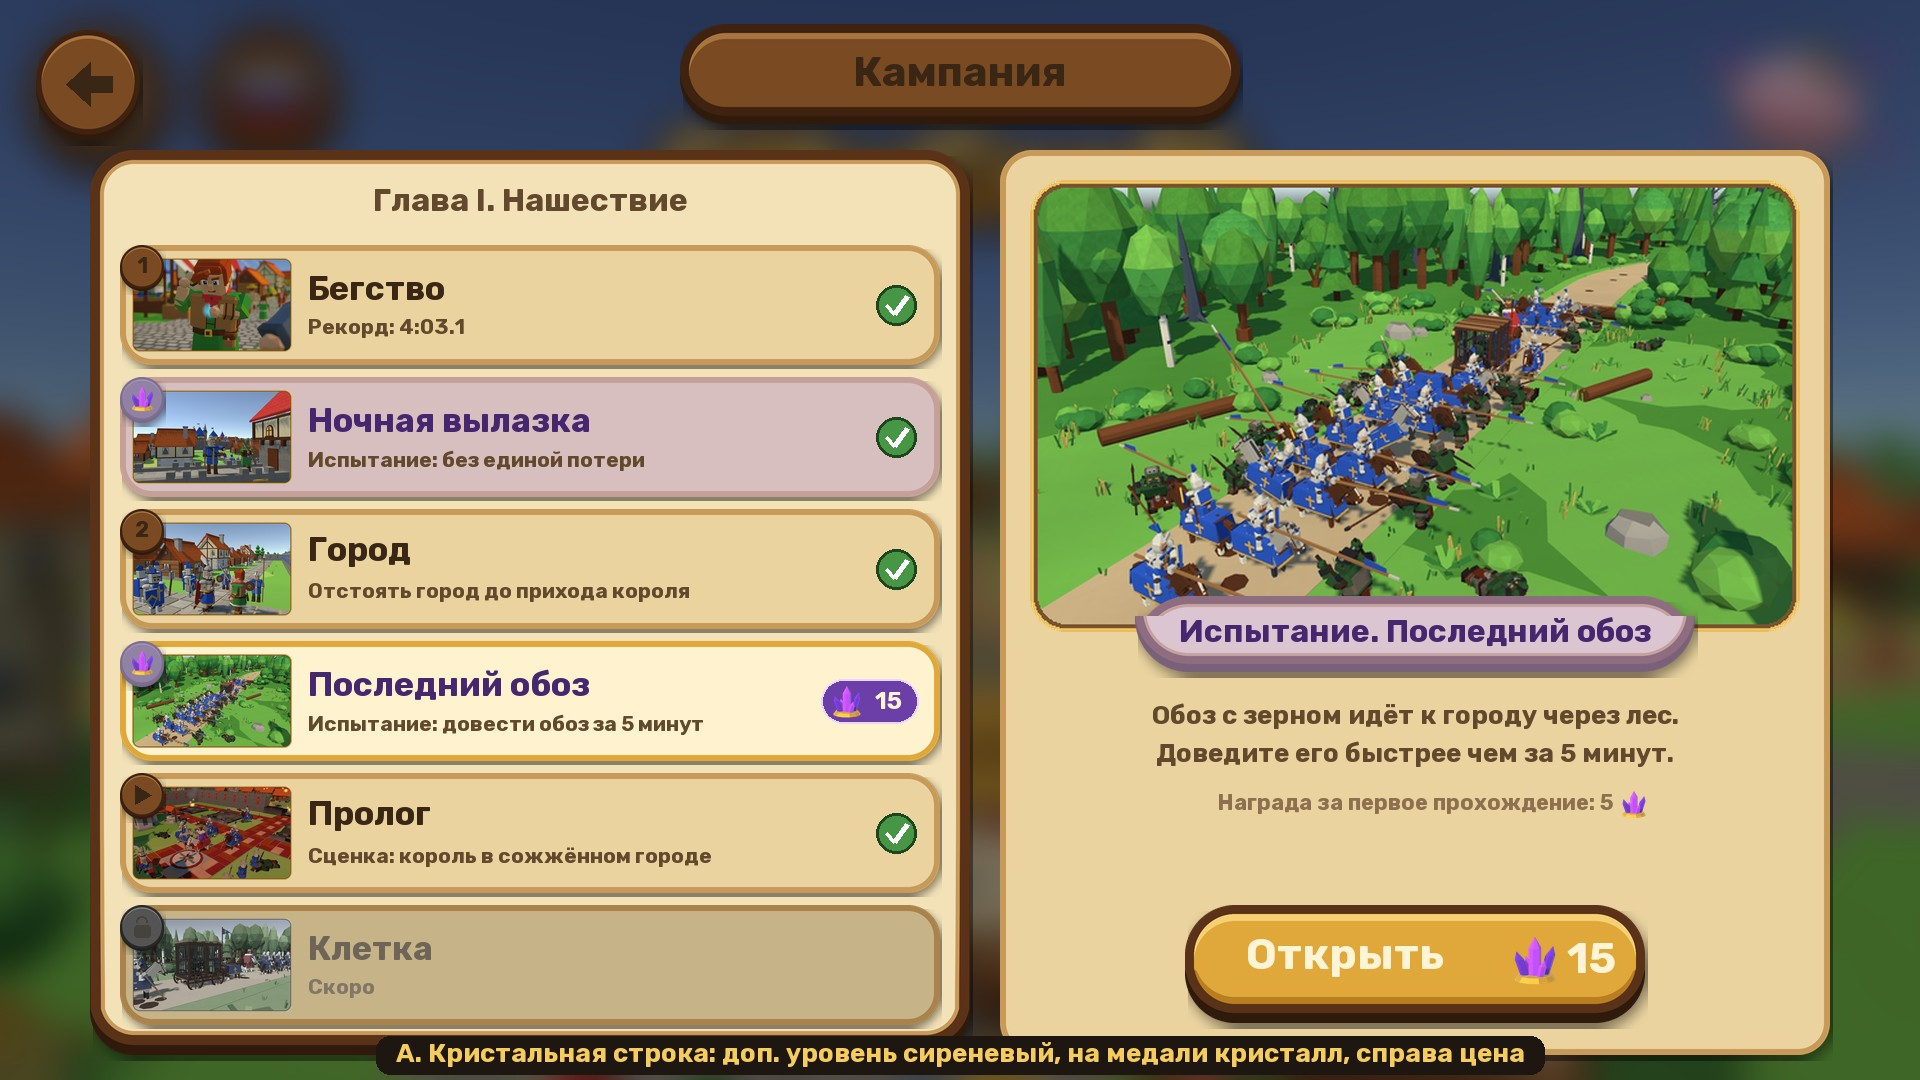
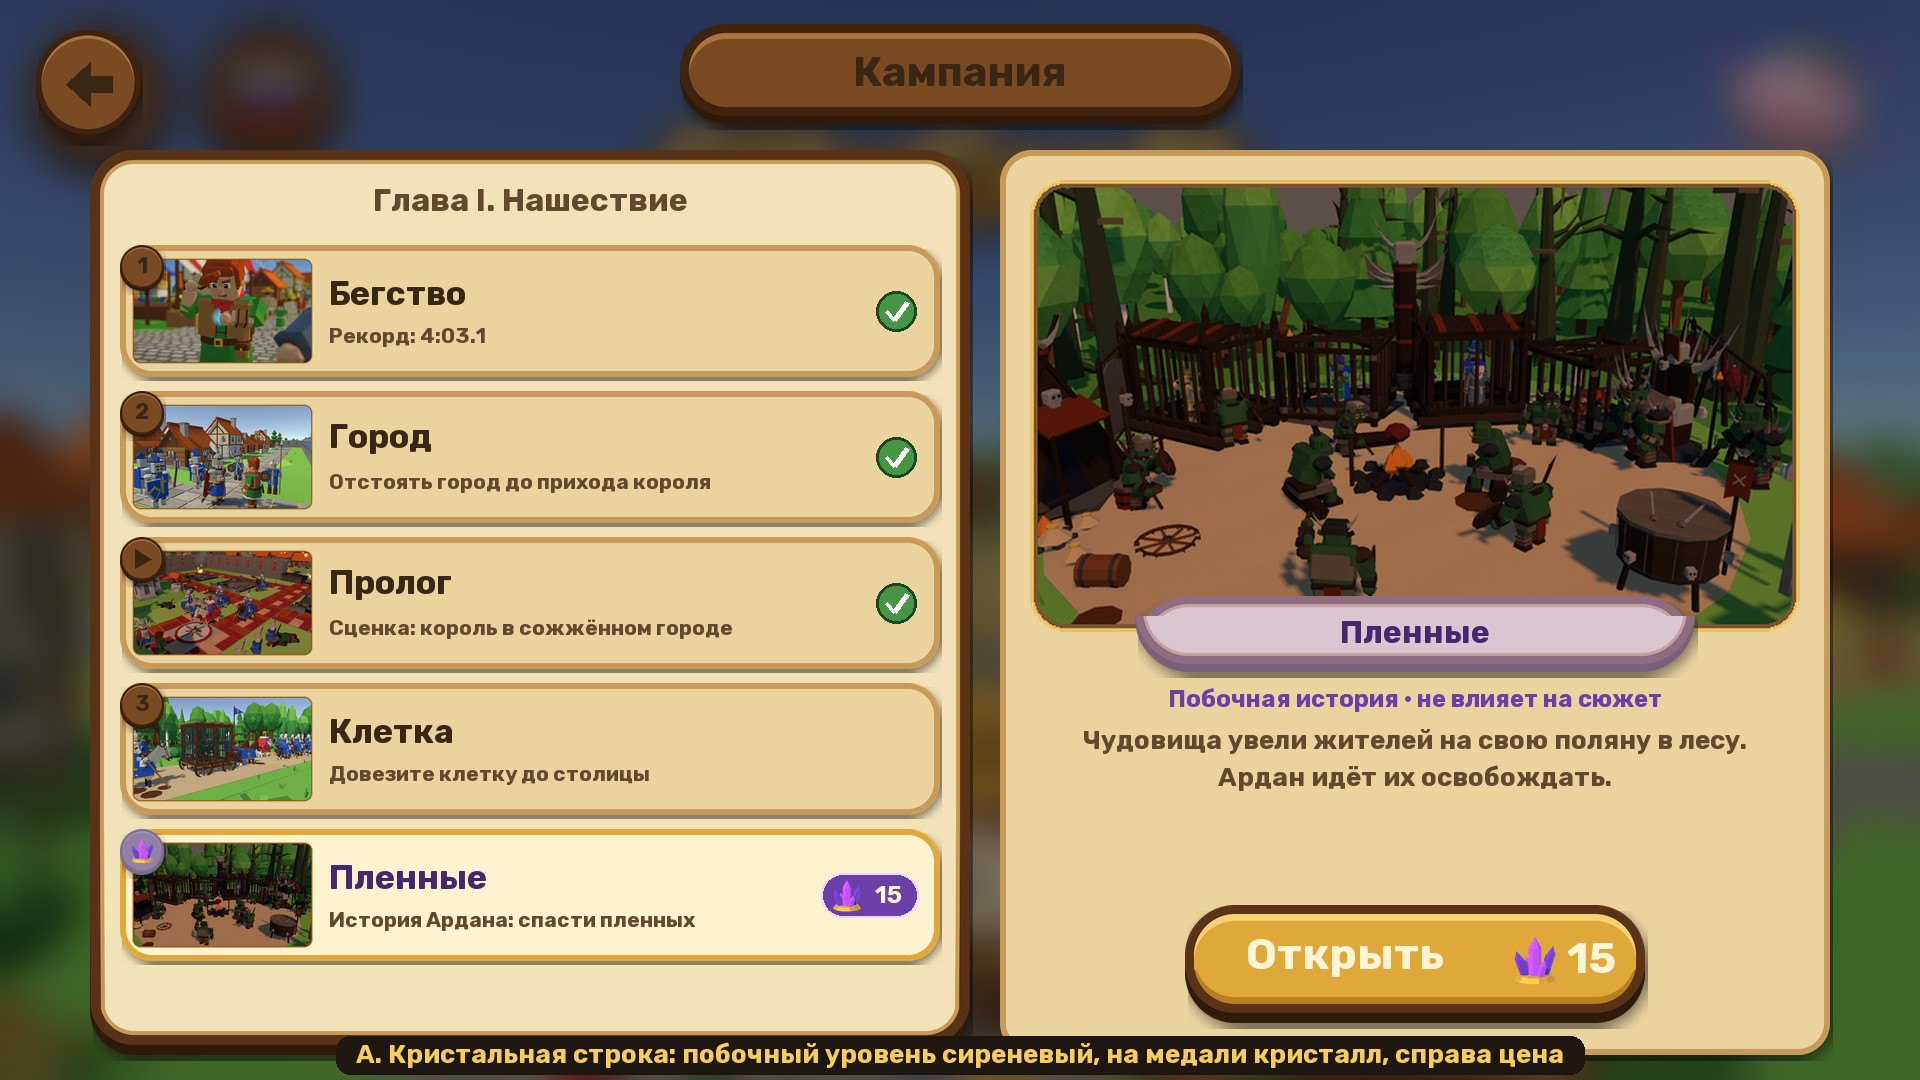
Campaign list: main/side marking concepts redone on the real levels (Пленные = Ардан's side branch)

diff --git a/Tools/campaign/campaign_extra_concept.py b/Tools/campaign/campaign_extra_concept.py
@@ -1,6 +1,8 @@
 """How MAIN story levels and EXTRA levels (opened for crystals) tell apart in the campaign list (the user
 2026-11-24: «предложи пометку для основных уровней и дополнительных, которые игрок будет открывать за кристаллы»).
-Three concept screens over the real list layout (variant A), the extras' names are only examples:
+The user then explained: an EXTRA level is a SIDE BRANCH of the story, not the main line -- level 3 splits in two:
+«Клетка» (the King's road, MAIN) and «Пленные» (Ардан goes to free the captives, EXTRA, opened for crystals).
+Three concept screens over the real list layout (variant A) with the real levels:
 
   extra_a -- «Кристальная строка»: an extra row is lilac with a crystal on its medal and a price pill «15» + crystal
   extra_b -- «Ветка»: extras hang under the story level they follow, indented, joined by a dotted line, smaller
@@ -25,16 +27,15 @@ VIOLET = (108, 62, 168)
 
 # (preview, number, name, line, state, extra)   state: done / open / buy / locked
 ROWS = [("m1", "1", "Бегство", "Рекорд: 4:03.1", "done", False),
-        ("x1", "", "Ночная вылазка", "Испытание: без единой потери", "done", True),
         ("m2", "2", "Город", "Отстоять город до прихода короля", "done", False),
-        ("x2", "", "Последний обоз", "Испытание: довести обоз за 5 минут", "buy", True),
         ("m3p", "", "Пролог", "Сценка: король в сожжённом городе", "done", False),
-        ("m3b", "3", "Клетка", "Скоро", "locked", False)]
-PICKED = 3
+        ("m3b", "3", "Клетка", "Довезите клетку до столицы", "open", False),
+        ("m3a", "", "Пленные", "История Ардана: спасти пленных", "buy", True)]
+PICKED = 4
 
 
 def thumb(key, w, h):
-    if key.startswith('x'):   # an example extra: a frame of the siege / the escort
+    if False:
         src = sorted(os.listdir(os.path.join(SHOTS, 'm2' if key == 'x1' else 'm3b')))
         from preview_sheet import crop
         pic = crop(Image.open(os.path.join(SHOTS, 'm2' if key == 'x1' else 'm3b', src[8 if key == 'x1' else 20])).convert('RGB')).convert('RGBA')
@@ -127,13 +128,11 @@ def card(base, d, rows_picked, extra_label):
         tint.putalpha(pl.getchannel('A'))
         pl = Image.blend(pl, tint, 0.5)
     shadow(base, pl, (cx + cw // 2 - 280, py))
-    text_c(d, (cx + cw // 2, py + 36), f"{extra_label}. {name}" if extra else name, 32, fill=(70, 38, 110) if extra else INK)
-    text_c(d, (cx + cw // 2, py + 120), "Обоз с зерном идёт к городу через лес.", 26, fill=BROWN)
-    text_c(d, (cx + cw // 2, py + 158), "Доведите его быстрее чем за 5 минут.", 26, fill=BROWN)
-    text_c(d, (cx + cw // 2, py + 208), "Награда за первое прохождение: 5", 22, fill=(140, 112, 80))
-    c = crystal(34)
-    tw = d.textlength("Награда за первое прохождение: 5", font=font(22))
-    base.alpha_composite(c, (int(cx + cw // 2 + tw / 2 + 4), py + 190))
+    text_c(d, (cx + cw // 2, py + 36), name, 32, fill=(70, 38, 110) if extra else INK)
+    text_c(d, (cx + cw // 2, py + 104), extra_label, 24, fill=VIOLET)
+    text_c(d, (cx + cw // 2, py + 146), "Чудовища увели жителей на свою поляну в лесу.", 26, fill=BROWN)
+    text_c(d, (cx + cw // 2, py + 182), "Ардан идёт их освобождать.", 26, fill=BROWN)
+
     # the buy button: the menu's own button, a crystal and the price
     bw, bh = 460, 118
     bx, by = cx + cw // 2 - bw // 2, cy + chh - 150
@@ -159,10 +158,10 @@ def variant_a(out):
     px, py, pw, ph = panel(base, d, "Глава I. Нашествие")
     y = py + 95
     for i, r in enumerate(ROWS):
-        row(base, d, px + 30, y, pw - 60, 120, r, i == PICKED)
-        y += 132
-    card(base, d, ROWS[PICKED], "Испытание")
-    note(d, "А. Кристальная строка: доп. уровень сиреневый, на медали кристалл, справа цена")
+        row(base, d, px + 30, y, pw - 60, 132, r, i == PICKED)
+        y += 146
+    card(base, d, ROWS[PICKED], "Побочная история · не влияет на сюжет")
+    note(d, "А. Кристальная строка: побочный уровень сиреневый, на медали кристалл, справа цена")
     base.convert('RGB').save(os.path.join(out, 'extra_a.jpg'), quality=90)
 
 
@@ -173,19 +172,18 @@ def variant_b(out):
     px, py, pw, ph = panel(base, d, "Глава I. Нашествие")
     y = py + 95
     for i, r in enumerate(ROWS):
-        extra = r[5]
-        if extra:   # hangs under its story level: indented, smaller, a dotted line from the level above
+        if i >= 3:   # the fork after the prologue: both roads hang from it, the side one lilac
             lx = px + 70
-            for yy in range(y - 18, y + 52, 12):
+            for yy in range(y - 18, y + 58, 12):
                 d.line((lx, yy, lx, yy + 6), fill=(150, 112, 70), width=4)
-            d.line((lx, y + 52, lx + 34, y + 52), fill=(150, 112, 70), width=4)
-            row(base, d, px + 110, y, pw - 140, 104, r, i == PICKED, small=True)
-            y += 116
+            d.line((lx, y + 58, lx + 34, y + 58), fill=(150, 112, 70), width=4)
+            row(base, d, px + 110, y, pw - 140, 116, r, i == PICKED, small=True)
+            y += 128
         else:
             row(base, d, px + 30, y, pw - 60, 128, r, i == PICKED)
             y += 140
-    card(base, d, ROWS[PICKED], "Испытание")
-    note(d, "Б. Ветка: доп. уровень висит под своим сюжетным уровнем, с отступом и пунктиром")
+    card(base, d, ROWS[PICKED], "Побочная история · не влияет на сюжет")
+    note(d, "Б. Развилка: побочный уровень ответвляется от того же места, что и основной")
     base.convert('RGB').save(os.path.join(out, 'extra_b.jpg'), quality=90)
 
 
@@ -206,14 +204,14 @@ def variant_c(out):
     y += 8
     c = crystal(40)
     base.alpha_composite(c, (px + 34, y - 4))
-    text_l(d, (px + 80, y + 16), "Испытания", 26, fill=(70, 38, 110))
-    d.line((px + 240, y + 18, px + pw - 40, y + 18), fill=(176, 140, 96), width=3)
+    text_l(d, (px + 80, y + 16), "Побочные истории", 26, fill=(70, 38, 110))
+    d.line((px + 380, y + 18, px + pw - 40, y + 18), fill=(176, 140, 96), width=3)
     y += 42
     for r in extras:
         row(base, d, px + 30, y, pw - 60, 112, r, r is ROWS[PICKED], small=True)
         y += 120
-    card(base, d, ROWS[PICKED], "Испытание")
-    note(d, "В. Два раздела: сначала сюжет, ниже отдельный раздел «Испытания» за кристаллы")
+    card(base, d, ROWS[PICKED], "Побочная история · не влияет на сюжет")
+    note(d, "В. Два раздела: сначала сюжет, ниже отдельный раздел «Побочные истории» за кристаллы")
     base.convert('RGB').save(os.path.join(out, 'extra_c.jpg'), quality=90)
 
 
